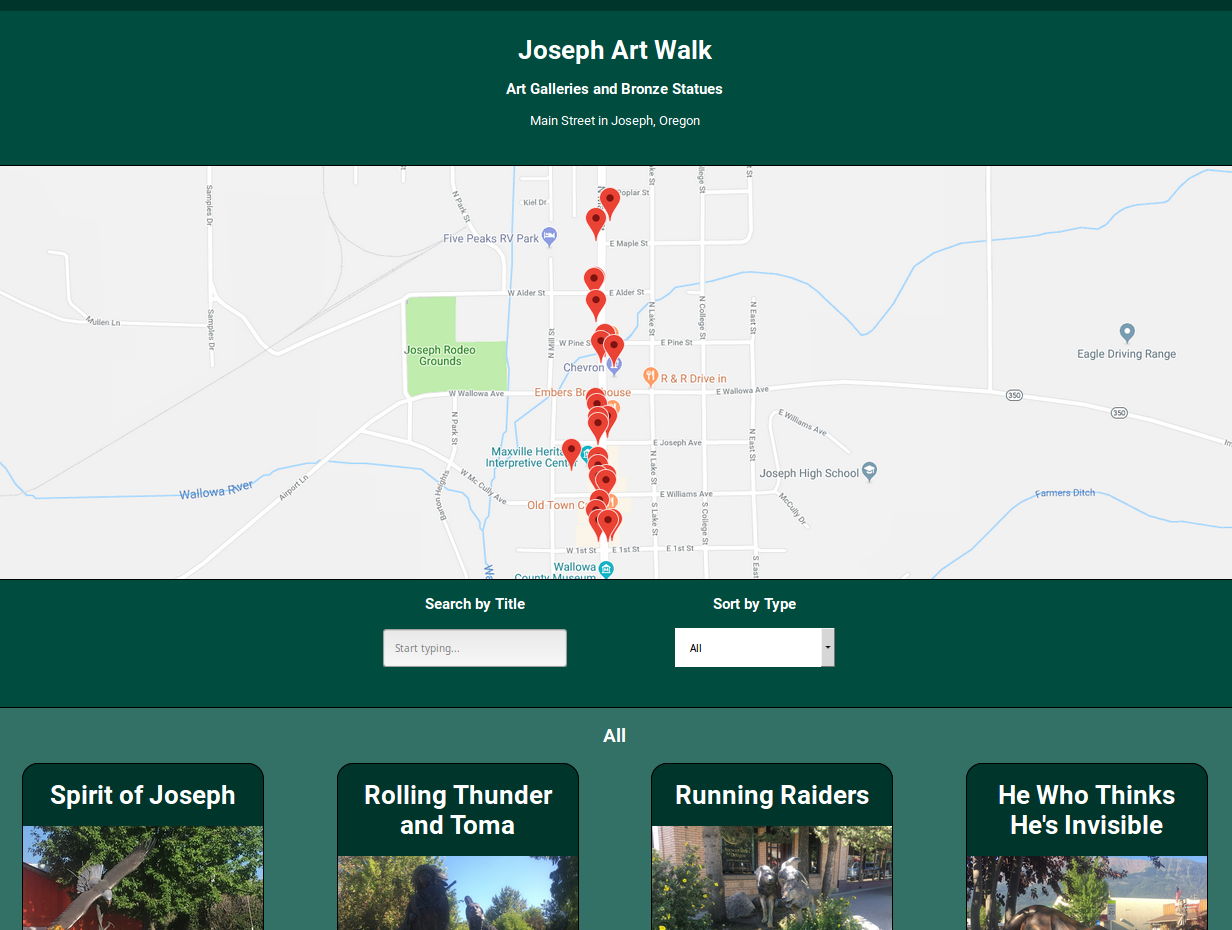
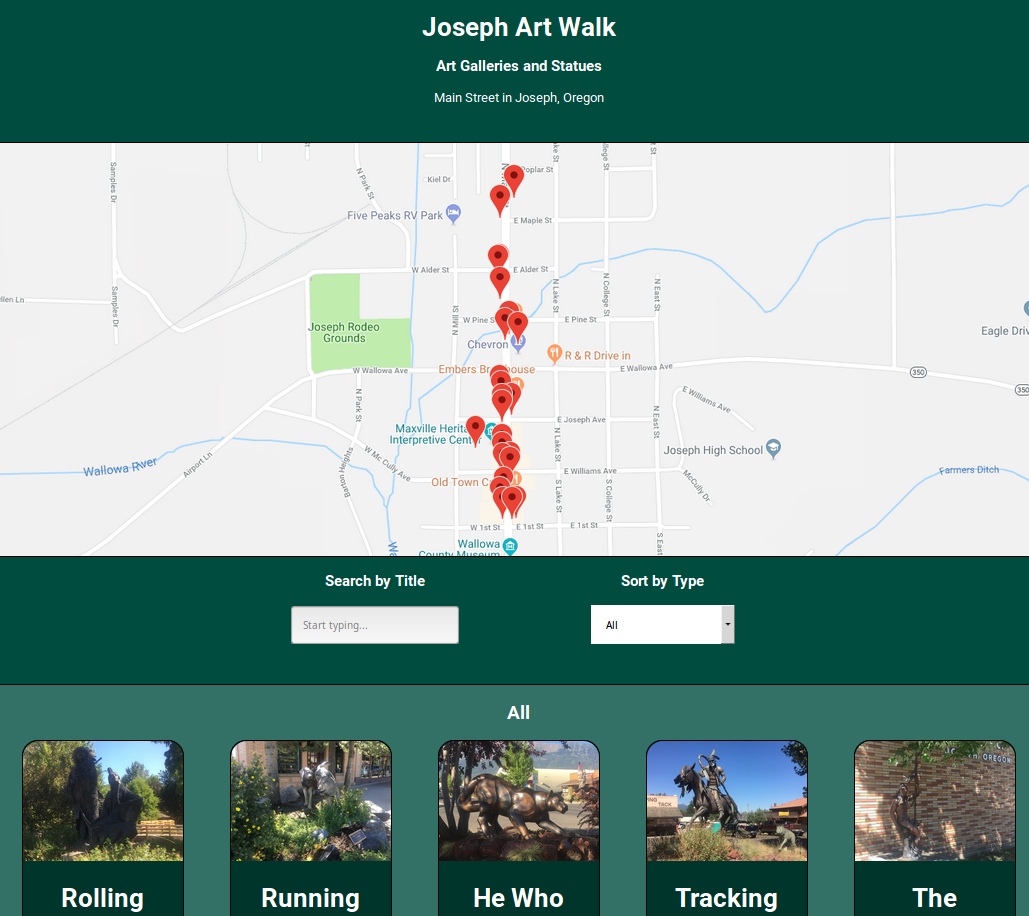
feat: Adjust style

diff --git a/app/css/style.css b/app/css/style.css
@@ -69,23 +69,10 @@ section {
 #filteredList {
   display: grid;
   grid-gap: 40px;
+  grid-template-columns: repeat(auto-fit, minmax(240px, 1fr));
   list-style-type: none;
   margin: 0;
   padding: 20px;
-}
-
-@media only screen {
-
-  #filteredList {
-    grid-template-columns: repeat(auto-fit, minmax(200px, 1fr));
-  }
-}
-
-@media only screen and (max-width: 320px;) {
-
-  #filteredList {
-    grid-template-columns: repeat(auto-fit, minmax(200px, 1fr));
-  }
 }
 
 #filteredListContainer h1 {
@@ -100,21 +87,21 @@ section {
   display: inline-block;
   font-size: 2em;
   margin: 0 auto;
-  max-width: 200px;
+  max-width: 300px;
   text-align: center;
   vertical-align: text-top;
 }
 
 #filteredList li div h4 {
   margin: 0 auto;
-  max-width: 200px;
+  max-width: 300px;
   padding: 20px;
 }
 
 #filteredList li div p {
   font-size: 0.6em;
   margin: 0 auto;
-  max-width: 200px;
+  max-width: 300px;
   padding: 20px;
 }
 
